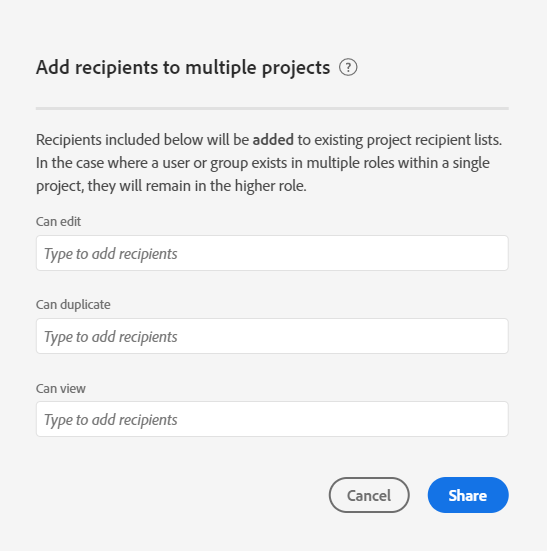
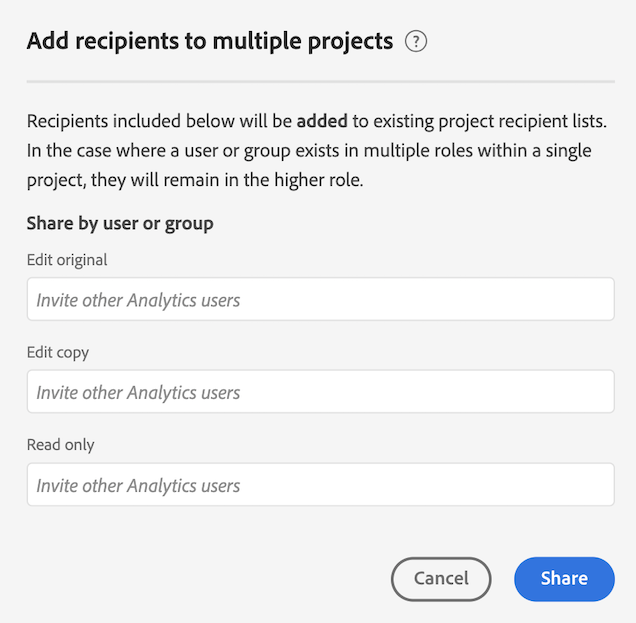
updated sharing roles to match new experience
Changed "Can edit" to "Edit original", "Can duplicate" to "Edit copy", and "Can view" to "Read only"

diff --git a/help/analyze/analysis-workspace/curate-share/share-projects.md b/help/analyze/analysis-workspace/curate-share/share-projects.md
@@ -43,13 +43,13 @@ You can share a specific role with users or groups, or you can share a link.
 
 When sharing a specific project role with users and groups in your organization, consider the following:
 
-* Project roles (**[!UICONTROL Can edit]**, **[!UICONTROL Can duplicate]**, and **[!UICONTROL Can view]**) are tied to the user and specific project ID. Project roles are independent of user permissions managed in the [Adobe Experience Cloud admin console](https://experienceleague.adobe.com/docs/core-services/interface/manage-users-and-products/admin-getting-started.html).
+* Project roles (**[!UICONTROL Edit original]**, **[!UICONTROL Edit copy]**, and **[!UICONTROL Read only]**) are tied to the user and specific project ID. Project roles are independent of user permissions managed in the [Adobe Experience Cloud admin console](https://experienceleague.adobe.com/docs/core-services/interface/manage-users-and-products/admin-getting-started.html).
    
 * In Adobe Analytics, groups are defined by product profiles in the [Adobe Experience Cloud admin console](https://experienceleague.adobe.com/docs/core-services/interface/manage-users-and-products/admin-getting-started.html). Admins can share to any group, including "All." Non-admins can share to any group they are a member of, with the exception of "All."
 
-* A user who is placed in multiple roles always get the highest experience. This might occur if a user is added both as an individual and as part of a group. For example, if a user is given the **[!UICONTROL Can edit]** role as an individual and the **[!UICONTROL Can view]** role as a member of a group, they will receive a **[!UICONTROL Can edit]** project experience.
+* A user who is placed in multiple roles always get the highest experience. This might occur if a user is added both as an individual and as part of a group. For example, if a user is given the **[!UICONTROL Edit original]** role as an individual and the **[!UICONTROL Read only]** role as a member of a group, they will receive a **[!UICONTROL Edit original]** project experience.
 
-* Admins placed in the **[!UICONTROL Can duplicate]** or **[!UICONTROL Can view]** role receive those limited experiences when they open a project. An Admin can change their role to **[!UICONTROL Can edit]** by sharing the project with themselves and granting the Edit role, as described in the following procedure. 
+* Admins placed in the **[!UICONTROL Edit copy]** or **[!UICONTROL Read only]** role receive those limited experiences when they open a project. An Admin can change their role to **[!UICONTROL Edit original]** by sharing the project with themselves and granting the Edit role, as described in the following procedure. 
 
 To share a specific project role with users or groups in your organization:
 
@@ -62,11 +62,11 @@ To share a specific project role with users or groups in your organization:
 
 1. Add recipients or groups of recipients in one of the provided role fields:
 
-   **Can edit:** Recipients can **[!UICONTROL Save]** changes to a project and function as co-owners. This role is useful if you want to co-manage a project with other colleagues; this includes editing, deleting, and modifying recipient lists for a shared project. <br>Note: Analysis Workspace does not currently support live collaboration, so it is recommended that only one user edit a project at a given time. If projects are saved at the same time, the last version will be kept. 
+   **Edit original:** Recipients can **[!UICONTROL Save]** changes to a project and function as co-owners. This role is useful if you want to co-manage a project with other colleagues; this includes editing, deleting, and modifying recipient lists for a shared project. <br>Note: Analysis Workspace does not currently support live collaboration, so it is recommended that only one user edit a project at a given time. If projects are saved at the same time, the last version will be kept. 
 
-   **Can duplicate:** Recipients can **[!UICONTROL Save as]** and have access to the left rail. Project interactions are not limited in this role. This role is useful if you want to share a project to users who understand your organization's data and how to use Analysis Workspace, but you do not want your project altered.
+   **Edit copy:** Recipients can **[!UICONTROL Save as]** and have access to the left rail. Project interactions are not limited in this role. This role is useful if you want to share a project to users who understand your organization's data and how to use Analysis Workspace, but you do not want your project altered.
 
-   **Can view:** Recipients cannot **[!UICONTROL Save]** or **[!UICONTROL Save as]** and do not have access to the left rail. Project interactions are also limited. This role is useful if you want to share a project to users that are less familiar with your organization's data structure, Analysis Workspace or Adobe Analytics generally. However, you still want them to consume data and insights in a safe environment. Learn more about the [Can view project experience](/help/analyze/analysis-workspace/curate-share/view-only-projects.md).
+   **Read only:** Recipients cannot **[!UICONTROL Save]** or **[!UICONTROL Save as]** and do not have access to the left rail. Project interactions are also limited. This role is useful if you want to share a project to users that are less familiar with your organization's data structure, Analysis Workspace or Adobe Analytics generally. However, you still want them to consume data and insights in a safe environment. Learn more about the [Read only project experience](/help/analyze/analysis-workspace/curate-share/view-only-projects.md).
 
 1. Choose whether to enable the following options when sharing the project:
 
@@ -86,7 +86,7 @@ When sharing a link as described in this section, consider the following:
 
 * Recipients who use the link are required to log in to Adobe Analytics before gaining access to the project. 
 
-* If a recipient is not assigned a role and receives a [link](https://experienceleague.adobe.com/docs/analytics/analyze/analysis-workspace/curate-share/shareable-links.html) to the project, they are given a role by default. Admins receive **[!UICONTROL Can edit]** and non-admins receive **[!UICONTROL Can duplicate]**.
+* If a recipient is not assigned a role and receives a [link](https://experienceleague.adobe.com/docs/analytics/analyze/analysis-workspace/curate-share/shareable-links.html) to the project, they are given a role by default. Admins receive **[!UICONTROL Edit original]** and non-admins receive **[!UICONTROL Edit copy]**.
 
 To share the project link with users in your organization:
 
@@ -189,5 +189,5 @@ Here is a video on the topic:
 | Question | Answer |
 | --- | --- |
 | What happens if two editors save a project at the same time? | Changes are not merged and the last saved project version will be kept. Analysis Workspace does not currently support live collaboration. |
-| What happens if a recipient is placed in one role as an individual and another role as a member of a group? | If a recipient is placed in multiple roles, they will always receive the higher experience. For example, if a recipient is given the **[!UICONTROL Can edit]** role as an individual and the **[!UICONTROL Can view]** role as a member of a group, they will receive a **[!UICONTROL Can edit]** project experience. |
-| What experience does a recipient get if they open a project link? | Recipients receive the role you placed them in the share modal. If a recipient is not assigned a role and receives a link to the project (**[!UICONTROL Share]** > **[!UICONTROL Share with Workspace users]**, then select **[!UICONTROL Copy]** next to the **[!UICONTROL Share by link]** field), they will be placed into a role by default. Admins receive **[!UICONTROL Can edit]** and Non-admins receive **[!UICONTROL Can duplicate]**. |
+| What happens if a recipient is placed in one role as an individual and another role as a member of a group? | If a recipient is placed in multiple roles, they will always receive the higher experience. For example, if a recipient is given the **[!UICONTROL Edit original]** role as an individual and the **[!UICONTROL Read only]** role as a member of a group, they will receive a **[!UICONTROL Edit original]** project experience. |
+| What experience does a recipient get if they open a project link? | Recipients receive the role you placed them in the share modal. If a recipient is not assigned a role and receives a link to the project (**[!UICONTROL Share]** > **[!UICONTROL Share with Workspace users]**, then select **[!UICONTROL Copy]** next to the **[!UICONTROL Share by link]** field), they will be placed into a role by default. Admins receive **[!UICONTROL Edit original]** and Non-admins receive **[!UICONTROL Edit copy]**. |
